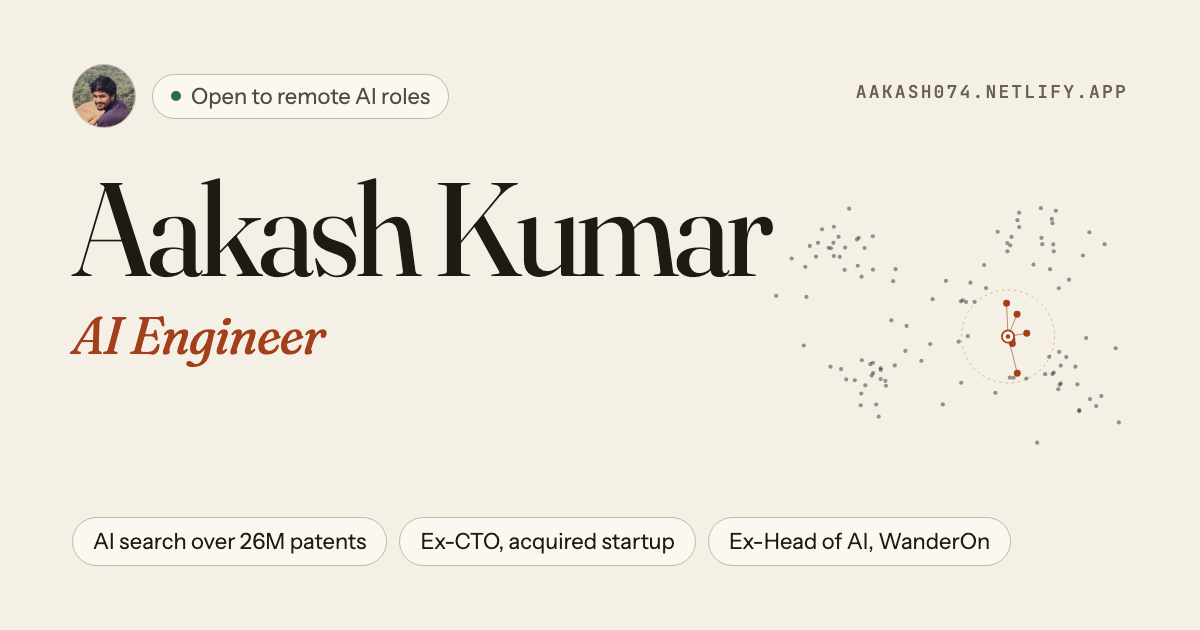
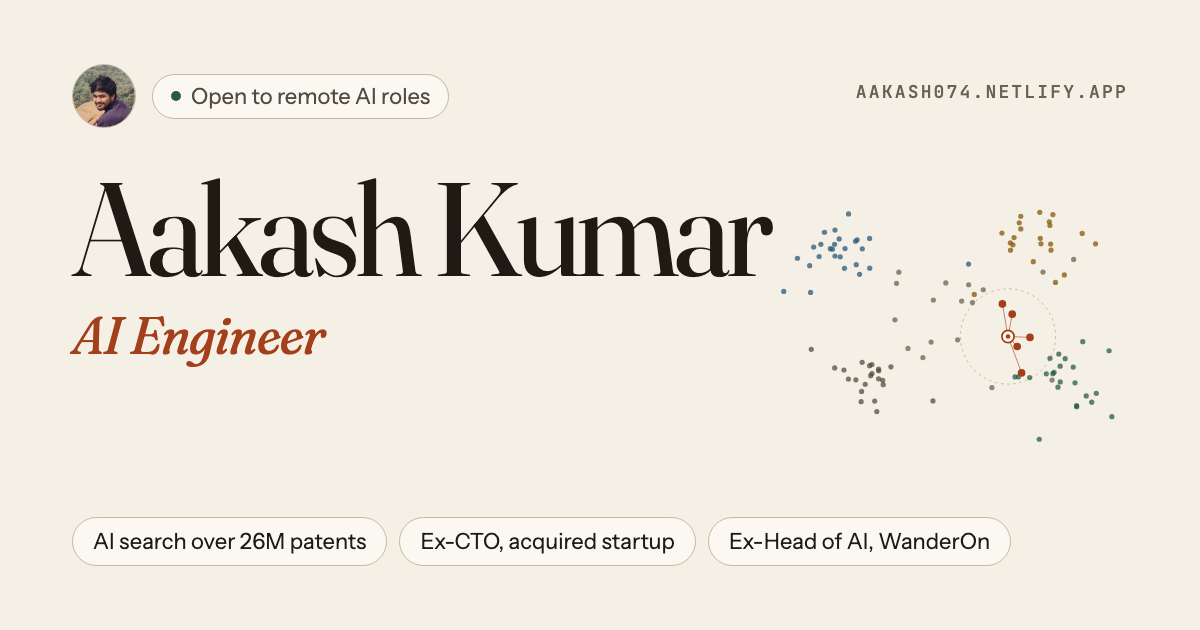
Redesign v2, round 3: responsive hero scores, outcome pull-quotes, review fixes
Design
- Hero search: steeper similarity falloff (about 0.9 in a topic, 0.6 in empty
  space), ranked scores never tie, query marker kept off topic labels
- Case studies: Outcome is a serif pull-quote in the body column; side column
  keeps Role and Stack (sticky); no hole before the figures
- Contact headline tracking loosened so letters no longer touch
- Experience: vertical rule drawn on scroll with a dot per role
- Mobile proof strip is a 2x2 grid; hero tightened so stats peek above the fold
- Lighter section padding on small screens; sr-only example for the hero figure
- OG and Twitter image dots tinted by topic to match the hero

Content
- WanderOn: no hand-off claim; role line reworded
- Hero proofs: "patent families searched by the AI I built", eval stat reworded
- CloneMyTrips: creators-and-followers intro, Dora outcome with the sale, fewer
  acquisition repeats (4 on the page), Timeline figure in past tense, chips
  React Native and LLM APIs
- "1M-family slice", eval body ends on the decision, INR 2L+ with USD gloss,
  rupee sign in the mock chat, one call label everywhere, "to present"

diff --git a/src/components/sections/selected-work.tsx b/src/components/sections/selected-work.tsx
@@ -68,19 +68,22 @@ function CaseBody({
   tools: string[];
 }) {
   return (
-    <div className="mt-10 grid gap-10 lg:grid-cols-12 lg:gap-10">
-      <div className="space-y-5 text-lg leading-relaxed text-muted lg:col-span-6 lg:col-start-3" data-reveal>
-        {children}
+    <div className="mt-10 grid gap-10 lg:grid-cols-12 lg:items-start lg:gap-10">
+      <div className="lg:col-span-6 lg:col-start-3" data-reveal>
+        <div className="space-y-5 text-lg leading-relaxed text-muted">{children}</div>
+        {/* The outcome reads as a pull-quote; the slot can take a big number later */}
+        <figure className="mt-8 border-l-2 border-accent pl-5 sm:pl-6">
+          <p className="label text-accent">Outcome</p>
+          <p className="mt-2 font-serif text-2xl leading-snug tracking-[-0.01em] text-foreground text-balance sm:text-[1.75rem]">
+            {outcome}
+          </p>
+        </figure>
       </div>
       <aside className="lg:col-span-3 lg:col-start-10" data-reveal style={delay(1)}>
         <dl className="space-y-6 border-t border-border-strong pt-5 lg:sticky lg:top-24">
           <div>
             <dt className="label text-subtle">Role</dt>
             <dd className="mt-1.5 text-[15px] leading-snug text-foreground">{role}</dd>
-          </div>
-          <div>
-            <dt className="label text-subtle">Outcome</dt>
-            <dd className="mt-1.5 font-serif text-[1.35rem] leading-snug text-foreground">{outcome}</dd>
           </div>
           <div>
             <dt className="label text-subtle">Stack</dt>
@@ -229,7 +232,7 @@ function RecallChart() {
 const CHAT: { from: "user" | "agent"; text: string }[] = [
   { from: "user", text: "Hi! Planning Ladakh in June for 4 of us." },
   { from: "agent", text: "Lovely. Which dates, and will you start from Delhi?" },
-  { from: "user", text: "15 to 22 June, from Delhi. Around 30k each." },
+  { from: "user", text: "15 to 22 June, from Delhi. Around ₹30k each." },
   { from: "agent", text: "Got it. A trip expert will call you today with options." },
 ];
 
@@ -237,7 +240,7 @@ const LEAD = [
   ["Trip", "Ladakh, 7 nights"],
   ["Dates", "15 to 22 June"],
   ["Group", "4 people, from Delhi"],
-  ["Budget", "About 30k each"],
+  ["Budget", "About ₹30k each"],
 ];
 
 function ChatToLead() {
@@ -322,9 +325,9 @@ function ChatToLead() {
 /* ---------- CloneMyTrips: a short timeline, horizontal on wide screens ---------- */
 
 const MILESTONES = [
-  { when: "Mar 2024", what: "Designs the platform from scratch.", dot: "bg-subtle" },
-  { when: "2024", what: "Dora goes live on LLMs with real users.", dot: "bg-accent" },
-  { when: "Sep 2025", what: "The company is acquired.", dot: "bg-green" },
+  { when: "Mar 2024", what: "Designed the platform from scratch.", dot: "bg-subtle" },
+  { when: "2024", what: "Dora went live on LLMs with real users.", dot: "bg-accent" },
+  { when: "Sep 2025", what: "Handed over after 18 months as CTO.", dot: "bg-green" },
 ];
 
 function Timeline() {
@@ -365,7 +368,7 @@ export function SelectedWork() {
           AI I built that <em className="text-accent">real people</em> use.
         </>
       }
-      intro="Search that has to find the right answer among millions of documents, an agent that talks to customers, and a startup where I was CTO until it was acquired."
+      intro="Search that has to find the right answer among millions of documents, an agent that talks to customers, and a travel app I built from scratch as CTO."
     >
       <div className="space-y-28 sm:space-y-32">
         {/* 01. Photon Legal */}
@@ -421,10 +424,10 @@ export function SelectedWork() {
                 starts missing them, the change can&apos;t ship.
               </p>
               <p>
-                Early tests said a 1M-patent slice beat the full 26M, which made no sense, so I checked the test
+                Early tests said a 1M-family slice beat the full 26M, which made no sense, so I checked the test
                 itself. Examiners often cite a different filing of the same invention, so matching by exact patent
-                number missed most real hits. I changed the test to match by invention, which showed the search was
-                finding 2.4 to 3 times more than first reported, and the team kept the full search.
+                number missed most real hits. I changed the test to match by invention, which showed the full search
+                was finding far more than first reported, so the team kept it.
               </p>
             </div>
             <div className="rounded-2xl bg-background p-5 text-foreground lg:col-span-12">
@@ -445,14 +448,14 @@ export function SelectedWork() {
             badge="Shipped to customers"
           />
           <CaseBody
-            role="Led AI across the company and led the build of the agent."
+            role="Led AI across the company, including the build of this agent."
             outcome="Sales gets ready-to-call leads instead of raw chats."
             tools={["WhatsApp", "LLMs", "CRM integration"]}
           >
             <p>
               WanderOn gets a steady stream of travel enquiries on WhatsApp, and the sales team only wants the
               serious ones. I led the build of an AI agent that chats with each customer, collects their trip details
-              and creates a ready-to-call lead in the CRM, handing off to a person when needed.
+              and creates a ready-to-call lead in the CRM.
             </p>
             <p>
               As Head of AI I also built internal AI tools for the operations team, and WanderOn raised an INR 54
@@ -479,21 +482,21 @@ export function SelectedWork() {
             role="CTO"
             dates="Mar 2024 to Sep 2025"
             title="Built the product as CTO, from first line of code to acquisition"
-            badge="Company acquired"
+            badge="Shipped to real users"
           />
           <CaseBody
             role="Ran engineering and product."
-            outcome="Acquired in Sep 2025."
-            tools={["React Native", "LLM APIs", "Mobile app"]}
+            outcome="Dora put AI trip plans in front of real users, and the company was bought in Sep 2025."
+            tools={["React Native", "LLM APIs"]}
           >
             <p>
-              CloneMyTrips is a travel app. I designed the platform from scratch and worked directly with the
+              CloneMyTrips is a travel app that connects travel creators with their followers. I designed the platform from scratch and worked directly with the
               founders on what to build and when.
             </p>
             <p>I also built Dora, the app&apos;s AI trip planner, which ran on LLMs with real users from 2024 onward.</p>
           </CaseBody>
 
-          <FigureFrame className="mt-12" number={3} title="What I owned" caption="From the first architecture to the acquisition.">
+          <FigureFrame className="mt-12" number={3} title="Timeline" caption="Eighteen months, from the first architecture to the handover.">
             <div className="py-2">
               <Timeline />
             </div>
@@ -512,7 +515,7 @@ export function SelectedWork() {
           rel="noopener noreferrer"
           className={cn(buttonStyles.base, buttonStyles.primary)}
         >
-          Book 30 minutes
+          Book a 30 min call
           <ArrowUpRight className="nudge h-4 w-4" aria-hidden="true" />
           <span className="sr-only">(opens in a new tab)</span>
         </a>

diff --git a/src/components/sections/hero.tsx b/src/components/sections/hero.tsx
@@ -22,9 +22,9 @@ function Letters({ word, offset = 0 }: { word: string; offset?: number }) {
 const PROOF = [
   {
     stat: <CountUp to={26} suffix="M" />,
-    text: "patents searched by the AI search I built for Photon Legal.",
+    text: "patent families searched by the AI I built for Photon Legal.",
   },
-  { stat: "2.4 to 3x", text: "more real matches found once the patent search was tested the right way." },
+  { stat: "2.4 to 3x", text: "more real matches than first measured, once I changed how the patent search was scored." },
   { stat: "Head of AI", text: "at WanderOn, where I led the WhatsApp agent that turns customer chats into sales leads." },
   { stat: "Top 5", text: "on HackTheBox worldwide. Security is where I started." },
 ];
@@ -32,7 +32,7 @@ const PROOF = [
 export function Hero() {
   return (
     <section id="intro" aria-labelledby="hero-heading" className="relative">
-      <div className="mx-auto max-w-6xl px-4 pt-8 sm:px-6 sm:pt-12 lg:px-8 lg:pt-12">
+      <div className="mx-auto max-w-6xl px-4 pt-7 sm:px-6 sm:pt-10 lg:px-8 lg:pt-8">
         <div className="grid gap-12 lg:grid-cols-12 lg:gap-10">
           <div className="lg:col-span-7">
             <div className="intro flex items-center gap-3" style={delay(0)}>
@@ -53,7 +53,7 @@ export function Hero() {
 
             <h1
               id="hero-heading"
-              className="mt-5 font-serif text-[clamp(4.25rem,19vw,6.5rem)] leading-[0.92] font-normal tracking-[-0.035em] sm:mt-10"
+              className="mt-4 font-serif text-[clamp(4.25rem,19vw,6.5rem)] leading-[0.92] font-normal tracking-[-0.035em] sm:mt-10"
             >
               <span className="sr-only">Aakash Kumar, AI Engineer</span>
               <Letters word="Aakash" />
@@ -129,13 +129,17 @@ export function Hero() {
             <figcaption className="mt-4 max-w-sm text-sm leading-relaxed text-muted">
               Move your cursor, or tap. Each dot is a document placed by meaning, and the search returns the closest
               ones. Same idea as the patent search below, with made-up data.
+              <span className="sr-only">
+                {" "}For example, an idea about an insulin pump returns similar medical device patents first, with the
+                closest ones scoring highest.
+              </span>
             </figcaption>
           </figure>
         </div>
 
         <ul
           aria-label="Proof at a glance"
-          className="mt-14 grid grid-cols-1 border-t border-foreground/80 sm:grid-cols-2 lg:mt-10 lg:grid-cols-4"
+          className="mt-12 grid grid-cols-2 border-t border-foreground/80 lg:mt-8 lg:grid-cols-4"
         >
           {PROOF.map((p, i) => (
             <li
@@ -143,15 +147,16 @@ export function Hero() {
               data-reveal
               style={delay(i)}
               className={cn(
-                "border-b border-border py-6 sm:px-6 lg:border-b-0 lg:py-8",
-                i % 2 === 1 && "sm:border-l",
-                i === 0 && "sm:pl-0",
-                i === 2 && "sm:pl-0 lg:pl-6",
-                i > 0 && "lg:border-l"
+                "py-5 pr-3 sm:py-6 sm:pr-6 lg:py-7",
+                i % 2 === 1 && "border-l border-border pl-4 sm:pl-6",
+                i < 2 && "border-b border-border lg:border-b-0",
+                i === 2 && "lg:border-l lg:pl-6"
               )}
             >
-              <p className="font-serif text-[2.6rem] leading-none tracking-[-0.03em] whitespace-nowrap text-foreground xl:text-5xl">{p.stat}</p>
-              <p className="mt-3 max-w-[17rem] text-[15px] leading-snug text-muted">{p.text}</p>
+              <p className="font-serif text-[2rem] leading-none tracking-[-0.03em] whitespace-nowrap text-foreground sm:text-[2.6rem] xl:text-5xl">
+                {p.stat}
+              </p>
+              <p className="mt-3 max-w-[17rem] text-sm leading-snug text-muted sm:text-[15px]">{p.text}</p>
             </li>
           ))}
         </ul>

diff --git a/src/components/hero/vector-field.tsx b/src/components/hero/vector-field.tsx
@@ -49,6 +49,21 @@ function labelBox(cl: Cluster) {
   return { x: cl.x, y: cl.y - cl.s - 0.05, hw: 0.03 + cl.label.length * 0.0095, hh: 0.035 };
 }
 
+/** Moves a query point out of any topic-label box (with padding), so the marker never covers a label. */
+function keepOffLabels(q: { x: number; y: number }) {
+  for (const cl of CLUSTERS) {
+    if (!cl.label) continue;
+    const b = labelBox(cl);
+    const hw = b.hw + 0.03;
+    const hh = b.hh + 0.06;
+    if (Math.abs(q.x - b.x) < hw && Math.abs(q.y - b.y) < hh) {
+      // Leave by the nearest vertical edge: labels are wide and short.
+      q.y = q.y < b.y ? b.y - hh : b.y + hh;
+    }
+  }
+  return q;
+}
+
 function makePoints(): Pt[] {
   let seed = 11;
   const rand = () => {
@@ -136,13 +151,17 @@ export function VectorField() {
     };
 
     const updateList = () => {
-      const key = `${nearIdx[0]},${nearIdx[1]},${nearIdx[2]}`;
+      const key = `${nearIdx[0]},${nearIdx[1]},${nearIdx[2]},${Math.round(Math.sqrt(nearD[0]) / 4)}`;
       if (key === shownKey) return;
       shownKey = key;
-      const far = Math.hypot(w, h) * 0.5;
+      // Steep falloff: about 0.9 inside a topic, about 0.6 out in empty space.
+      const far = Math.min(w, h) * 0.35;
+      let prev = 1;
       for (let r = 0; r < TOP; r++) {
         const p = points[nearIdx[r]];
-        const sim = Math.max(0.5, 0.99 - (Math.sqrt(nearD[r]) / far) * 0.6);
+        let sim = Math.max(0.42, 0.98 - (Math.sqrt(nearD[r]) / far) * 0.55);
+        sim = Math.min(sim, prev - 0.01); // ranked results never tie
+        prev = sim;
         const row = rows[r];
         row.querySelector("[data-title]")!.textContent = p.title;
         row.querySelector("[data-score]")!.textContent = sim.toFixed(2);
@@ -162,9 +181,11 @@ export function VectorField() {
         tx = 0.5 + Math.sin(t * 0.23) * 0.3;
         ty = 0.56 + Math.sin(t * 0.31 + 1.2) * 0.26;
       }
+      const target = keepOffLabels({ x: tx, y: ty });
       const ease = reduce ? 1 : pointer ? 0.2 : 0.05;
-      query.x += (tx - query.x) * ease;
-      query.y += (ty - query.y) * ease;
+      query.x += (target.x - query.x) * ease;
+      query.y += (target.y - query.y) * ease;
+      keepOffLabels(query);
       const qx = query.x * w;
       const qy = query.y * h;
 
@@ -324,10 +345,10 @@ export function VectorField() {
 
     const toLocal = (e: PointerEvent) => {
       const rect = wrap.getBoundingClientRect();
-      return {
+      return keepOffLabels({
         x: Math.min(0.97, Math.max(0.03, (e.clientX - rect.left) / rect.width)),
         y: Math.min(0.97, Math.max(0.12, (e.clientY - rect.top) / rect.height)),
-      };
+      });
     };
     const onMove = (e: PointerEvent) => {
       pointer = toLocal(e);

diff --git a/src/components/sections/experience.tsx b/src/components/sections/experience.tsx
@@ -15,7 +15,7 @@ const ROLES: Role[] = [
   {
     company: "Shifu Ventures",
     role: "AI Consultant",
-    dates: "Aug 2026 to now",
+    dates: "Aug 2026 to present",
     place: "Product studio and VC, India",
     summary:
       "I build AI features for startups in the Shifu portfolio and take them to production. The main one is Photon Legal's patent search.",
@@ -35,7 +35,7 @@ const ROLES: Role[] = [
     dates: "Mar 2024 to Sep 2025",
     place: "Bengaluru, India (hybrid)",
     summary:
-      "Built the platform from scratch, ran engineering and product through the acquisition, and launched Dora, the AI trip planner.",
+      "Built the platform from scratch, ran engineering and product, and launched Dora, the AI trip planner.",
     tag: "Acquired",
   },
   {
@@ -98,17 +98,26 @@ export function Experience() {
       label="Experience"
       title="4+ years shipping products. Since 2024, leading AI and engineering."
     >
-      <ol className="border-t border-border">
+      <ol data-timeline className="relative border-t border-border pl-7 sm:pl-9">
+        <span
+          aria-hidden="true"
+          className="timeline-line absolute top-0 bottom-0 left-[5px] w-px bg-border-strong"
+        />
         {ROLES.map((r, i) => (
           <li
             key={r.company}
             data-reveal
             style={{ "--d": Math.min(i, 3) } as React.CSSProperties}
-            className="group relative grid gap-2 border-b border-border py-7 transition-colors hover:bg-surface/60 sm:grid-cols-12 sm:gap-6 sm:py-8"
+            className="group relative grid gap-2 border-b border-border py-7 transition-colors sm:grid-cols-12 sm:gap-6 sm:py-8"
           >
             <span
               aria-hidden="true"
-              className="absolute top-7 bottom-7 -left-3 w-[2px] origin-top scale-y-0 rounded-full bg-accent transition-transform duration-500 ease-out group-hover:scale-y-100 sm:-left-4"
+              className={cn(
+                "absolute top-[2.2rem] -left-7 h-[11px] w-[11px] rounded-full border-2 transition-colors duration-300 sm:top-[2.45rem] sm:-left-9",
+                i === 0
+                  ? "border-accent bg-accent shadow-[0_0_0_4px_var(--accent-soft)]"
+                  : "border-border-strong bg-background group-hover:border-accent group-hover:bg-accent"
+              )}
             />
             <p className="label num pt-1.5 text-subtle sm:col-span-3">{r.dates}</p>
             <div className="transition-transform duration-500 ease-out group-hover:translate-x-1 sm:col-span-9 lg:col-span-8">

diff --git a/src/components/sections/contact.tsx b/src/components/sections/contact.tsx
@@ -15,7 +15,7 @@ const SOCIALS = [
 export function Contact() {
   return (
     <section id="contact" aria-labelledby="contact-heading" className="relative">
-      <div className="mx-auto max-w-6xl px-4 pt-20 pb-24 sm:px-6 sm:pt-28 sm:pb-32 lg:px-8 lg:pt-32">
+      <div className="mx-auto max-w-6xl px-4 pt-16 pb-20 sm:px-6 sm:pt-24 sm:pb-28 lg:px-8 lg:pt-28">
         <div className="border-t border-foreground/80 pt-5" data-reveal>
           <p className="label flex items-center gap-3 text-subtle">
             <span className="num text-accent">05</span>
@@ -28,7 +28,7 @@ export function Contact() {
           id="contact-heading"
           data-reveal
           style={delay(1)}
-          className="mt-10 max-w-4xl font-serif text-[2.6rem] leading-[1.02] tracking-[-0.03em] text-balance sm:text-6xl lg:text-[5.25rem]"
+          className="mt-10 max-w-4xl font-serif text-[2.6rem] leading-[1.02] tracking-[-0.02em] text-balance sm:text-6xl lg:text-[5.25rem]"
         >
           Hiring for a senior AI role? <em className="text-accent">Let&apos;s talk.</em>
         </h2>

diff --git a/src/components/ui/section.tsx b/src/components/ui/section.tsx
@@ -18,7 +18,7 @@ export function Section({ id, index, label, title, intro, children, className }:
   const headingId = `${id}-heading`;
   return (
     <section id={id} aria-labelledby={headingId} className={cn("relative", className)}>
-      <div className="mx-auto max-w-6xl px-4 pt-20 pb-4 sm:px-6 sm:pt-28 lg:px-8 lg:pt-32">
+      <div className="mx-auto max-w-6xl px-4 pt-16 pb-4 sm:px-6 sm:pt-24 lg:px-8 lg:pt-28">
         <div className="border-t border-foreground/80 pt-5" data-reveal>
           <p className="label flex items-center gap-3 text-subtle">
             <span className="num text-accent">{index}</span>

diff --git a/src/components/sections/skills.tsx b/src/components/sections/skills.tsx
@@ -17,7 +17,7 @@ const RECOGNITION = [
   { big: "Top 5", title: "on HackTheBox", detail: "Worldwide, among 400,000+ hackers (Omniscient rank)." },
   { big: "2x", title: "ETHGlobal winner", detail: "ETHGlobal Singapore and Bangkok." },
   { big: "Patent", title: "Australian patent 2021105619", detail: "An ML method to find duplicate security vulnerabilities." },
-  { big: "2 lakh+", title: "rupees in bug bounties", detail: "From Dell, Samsung and others." },
+  { big: "INR 2L+", title: "in bug bounties", detail: "About USD 2,400, from Dell, Samsung and others." },
 ];
 
 export function Skills() {
